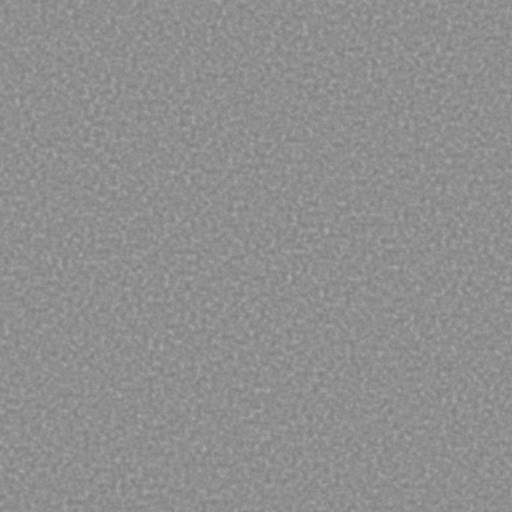
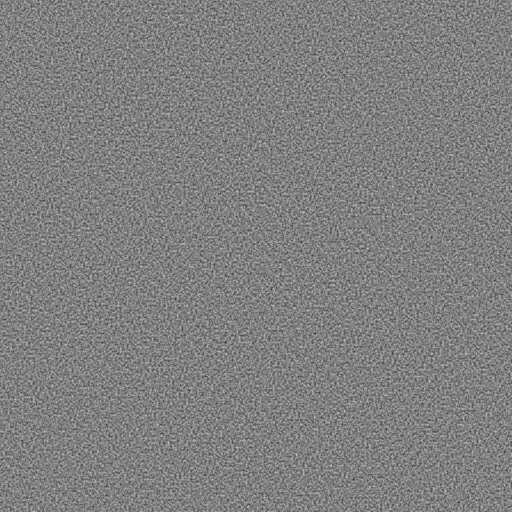
use the new ember-orange tile designs: finer grain and top edges that follow the corners

diff --git a/art/tiles/ember-orange/grain-texture.html b/art/tiles/ember-orange/grain-texture.html
@@ -3,6 +3,6 @@
      regenerate: google-chrome --headless --hide-scrollbars --force-device-scale-factor=1 --window-size=512,512 --screenshot=editor/grain.png art/tiles/ember-orange/grain-texture.html -->
 <html><body style="margin:0;background:#808080">
 <svg xmlns="http://www.w3.org/2000/svg" width="512" height="512" viewBox="0 0 160 160" style="display:block">
-<filter id="grain" x="0" y="0" width="160" height="160" filterUnits="userSpaceOnUse"><feTurbulence type="fractalNoise" baseFrequency="0.6" numOctaves="3" seed="4"/><feColorMatrix type="saturate" values="0"/></filter>
+<filter id="grain" x="0" y="0" width="160" height="160" filterUnits="userSpaceOnUse" color-interpolation-filters="sRGB"><feTurbulence type="fractalNoise" baseFrequency="1.4" numOctaves="4" seed="4" stitchTiles="stitch"/><feColorMatrix type="saturate" values="0"/><feComponentTransfer><feFuncR type="linear" slope="1.6" intercept="-0.3"/><feFuncG type="linear" slope="1.6" intercept="-0.3"/><feFuncB type="linear" slope="1.6" intercept="-0.3"/><feFuncA type="linear" slope="0" intercept="1"/></feComponentTransfer></filter>
 <g style="isolation:isolate"><rect width="160" height="160" fill="#808080"/><rect width="160" height="160" filter="url(#grain)" opacity="0.5" style="mix-blend-mode:overlay"/></g>
 </svg></body></html>

diff --git a/editor/editor.css b/editor/editor.css
@@ -155,7 +155,8 @@ main { padding: 12px 16px calc(32px + env(safe-area-inset-bottom)); max-width: 7
   inset: 0 0 10% 0;
   border-radius: var(--round);
   clip-path: inset(0 round var(--round));
-  background: linear-gradient(#ffffff2e 0 2.8%, transparent 2.8%), var(--face);
+  background: var(--face);
+  box-shadow: inset 0 2.5cqw #ffffff2e;
 }
 .tile.nf .face { --face: #3b3447; }
 .tile.flipped .face { transform: translateY(var(--press)); }
@@ -175,11 +176,10 @@ main { padding: 12px 16px calc(32px + env(safe-area-inset-bottom)); max-width: 7
 .grain, .shade, .glow { position: absolute; inset: 0; }
 .grain { background: url("grain.png") 0 0 / 100% auto no-repeat; mix-blend-mode: overlay; }
 .shade { background: radial-gradient(70% 70% at 50% 35%, #ffffff2e, #00000024); }
-/* the lit face's dark top edge and inner glow */
+/* the lit face's dark top edge (an inset shadow, so it follows the rounded corners like in the svg) and inner glow */
 .glow {
   border-radius: var(--round);
-  background: linear-gradient(#0000002e 0 3.5%, transparent 3.5%);
-  box-shadow: inset 0 0 6cqw 2cqw #ffffff59;
+  box-shadow: inset 0 0 6cqw 2cqw #ffffff59, inset 0 3.125cqw #0000002e;
   opacity: 0;
 }
 .tile.flipped .light { transform: none; }

diff --git a/CLAUDE.md b/CLAUDE.md
@@ -63,7 +63,7 @@ When Drifl drops a zip of art into the repo, extract what matters into `art/` (o
 
 Tapping empty space cancels back to `idle`. Invalid tile picks are ignored. `selection(state, index, picks)` gives what a selected card can pick next (`candidateTiles`/`candidateCards`), what it would change (`preview`/`blocked`, from the effect's `plan`) and how many picks it needs.
 
-**Web input** (`editor/board.js`, used by the tester page and the editor's Play tab; phone portrait is the intended way to play): taps work as above. On top of that, `attachPlayInput` turns gestures into the same bridge calls (`tapCard`/`tapTile`/`tapNothing`), so undo still counts one play per step. A drag (more than 10px) doesn't touch the game until the drop. A ghost card follows the finger. For a tile card, the board shows what the card would do: its options (`targeting` outlines), its changes (`preview`/`blocked`) and an orange dashed border (`.board.dragging`). These come from `bridge.peek(index)` and fade in through the CSS variable `--drag`, which goes from 0 at the drag start to 1 near the board's centre (`dragStrength`). For retarget, the cards it can change get the candidate border at full strength. Tapping a card skips all of this and selects it straight away. Holding a card still for 400ms (`LONG_PRESS`) shows the same options and changes at full strength, without the orange border and without selecting it, until the card is let go; moving the finger then turns the hold into a normal drag. The ghost is a clone of the hand card. Dropping a Fixed card on the board plays it (selects it, then picks its first candidate tile). Dropping another tile card on the board selects it, and its tiles are then picked by tapping or swiping. Dropping retarget on another card selects it and picks that card (or shakes the card if it can't be retargeted). Dropping anywhere else does nothing. Cards have `touch-action: pan-x`, so a drag must start upwards (a sideways move scrolls the hand). While an `adjacent` card has no picks yet, swiping from a tile to a neighbour picks both. A prompt line above the hand (`playPrompt`) says what to do next, with a Cancel button while a card is selected. The selected card shows a `k/N` badge when it needs more than one pick. Tapping a tile that can't be picked shakes it. `renderSnapshot` clears and rebuilds the board and hand itself (callers must not clear them first) and restores the window and hand scroll positions. The prompt row, status line and cards have fixed sizes, so the page doesn't change height as text changes. Cards (`renderCard`) have no text below the header. The header shows an icon and name in a colour chosen by effect and target kind (`CARD_FACES`, looked up as `effect:kind` and then `effect`): "Flip all" (Fixed, deep ember orange), "Flip one" (ChooseFrom, bright orange), plain "Flip" for other kinds, ⇄ Swap (lavender) and ✎ Retarget (rose), all picked to sit with the ember-orange tiles. The card body is styled like a tile key: the purple tile face (`--tile`) with the same grain and shading, on a dark `#221b28` base edge. Below the header is a mini-map of the board on dark squares: filled squares for the tiles of a Fixed card, outlined squares for the choices of a ChooseFrom card, the whole board tinted with a ×N pill for `any` and a pill of N joined squares for `adjacent`. Retarget shows a filled card ⇄ an outlined card. Single-use cards have a dashed white inner frame, and cards made by retarget have an orange "copy" tag. The old text label is kept as the card's `title`. Tiles (`renderCell`) have no text (the type id is the tile's `title`). Each tile is drawn in CSS as a key, after Drifl's "ember orange" tile designs: a face (`.face`) on a darker base (`.base`, with an orange `.base::after` that fades in when lit). `.tile` is a size container, so `cqw`/`cqh` inside it are tile units; corners are `--round` (12.5cqw) and the face is clipped with `clip-path: inset(0 round …)` (overflow clipping let animated children escape the rounded corners on some phones). Unflipped faces are purple (`--tile`); flipped faces are pushed in by 12/160 of the tile and lit orange (`--flipped`, with an inner glow). The face's own background is the unlit colour with its white top edge. Above it, in order: `.light`, a plain orange disc that covers the face when flipped and is scaled to 0 when not; `.grain` (`editor/grain.png`, blended with `mix-blend-mode: overlay` and stretched to the face width, so the grain scales with the tile like in the SVGs); `.shade` (the radial shading); and `.glow` (the lit face's dark top edge and inner glow, shown when flipped). The texture lies over both colours and shows the type: basic tiles are grainy, notswappable tiles have wide white diagonal stripes drawn plainly as in the SVG (`.tile.ns`, no grain), and notflippable tiles are grainy with a darker face for now (`.tile.nf`). Tile highlights (candidate, targeting, picked, the editor's coord selection) are inset shadows on `.face::after`, so they show above the light. When a tile's flipped state changes in a one-play step (a play, undo or redo), it animates (700ms for a flip and for an unflip with the current values). Flipping (`anim-on`): the face is pushed in by `--press`, the disc grows from the centre (ease-in) while the base's orange edge fades in, and the glow fades in as the disc reaches the edges; then the face bobs, a damped wobble (`bob-1`..`bob-3` keyframes, picked by `--bob-name`, each swing `--bob-damp` times the last) on the face's separate `translate` property, so it adds to the press. Unflipping (`anim-off`) runs it the other way. Each part (press, light, glow, bob) is its own from/to animation with a start, length and easing set by CSS variables on `:root` in `editor.css` (`--light-start`, `--light-ms`, `--light-ease`, …, and the same with `-off` for unflipping); `flipDuration()` in `board.js` reads the `-start`/`-ms` ones, so they must stay in ms. Only `transform` and `opacity` animate, and nothing is ever scaled above 1× or has a moving texture, so nothing has to be redrawn while it runs (keeping a texture still inside a growing circle needs an inverse scale, which made phones redraw the lit face at up to 33× and lag). `renderCell` removes the `anim-on`/`anim-off` classes when the animation (flip and bob) ends. `flipAnimations` keeps the last state and change time per board in a `WeakMap`, so a re-render mid-animation continues it (negative `--anim-delay`). Only steps within the same game animate: the snapshot's `game_id` changes on every `start()`, so loading, reset, restarting after an edit or switching level don't animate. A timed substrate's counter is a white number (no background, with a soft shadow) in the middle of the tile and moves with the face. Links still use the `L<n>` badge. The board previews the result: `preview` tiles get a dashed outline (filled with the colour they will flip to, for flip) and `blocked` tiles a ✕.
+**Web input** (`editor/board.js`, used by the tester page and the editor's Play tab; phone portrait is the intended way to play): taps work as above. On top of that, `attachPlayInput` turns gestures into the same bridge calls (`tapCard`/`tapTile`/`tapNothing`), so undo still counts one play per step. A drag (more than 10px) doesn't touch the game until the drop. A ghost card follows the finger. For a tile card, the board shows what the card would do: its options (`targeting` outlines), its changes (`preview`/`blocked`) and an orange dashed border (`.board.dragging`). These come from `bridge.peek(index)` and fade in through the CSS variable `--drag`, which goes from 0 at the drag start to 1 near the board's centre (`dragStrength`). For retarget, the cards it can change get the candidate border at full strength. Tapping a card skips all of this and selects it straight away. Holding a card still for 400ms (`LONG_PRESS`) shows the same options and changes at full strength, without the orange border and without selecting it, until the card is let go; moving the finger then turns the hold into a normal drag. The ghost is a clone of the hand card. Dropping a Fixed card on the board plays it (selects it, then picks its first candidate tile). Dropping another tile card on the board selects it, and its tiles are then picked by tapping or swiping. Dropping retarget on another card selects it and picks that card (or shakes the card if it can't be retargeted). Dropping anywhere else does nothing. Cards have `touch-action: pan-x`, so a drag must start upwards (a sideways move scrolls the hand). While an `adjacent` card has no picks yet, swiping from a tile to a neighbour picks both. A prompt line above the hand (`playPrompt`) says what to do next, with a Cancel button while a card is selected. The selected card shows a `k/N` badge when it needs more than one pick. Tapping a tile that can't be picked shakes it. `renderSnapshot` clears and rebuilds the board and hand itself (callers must not clear them first) and restores the window and hand scroll positions. The prompt row, status line and cards have fixed sizes, so the page doesn't change height as text changes. Cards (`renderCard`) have no text below the header. The header shows an icon and name in a colour chosen by effect and target kind (`CARD_FACES`, looked up as `effect:kind` and then `effect`): "Flip all" (Fixed, deep ember orange), "Flip one" (ChooseFrom, bright orange), plain "Flip" for other kinds, ⇄ Swap (lavender) and ✎ Retarget (rose), all picked to sit with the ember-orange tiles. The card body is styled like a tile key: the purple tile face (`--tile`) with the same grain and shading, on a dark `#221b28` base edge. Below the header is a mini-map of the board on dark squares: filled squares for the tiles of a Fixed card, outlined squares for the choices of a ChooseFrom card, the whole board tinted with a ×N pill for `any` and a pill of N joined squares for `adjacent`. Retarget shows a filled card ⇄ an outlined card. Single-use cards have a dashed white inner frame, and cards made by retarget have an orange "copy" tag. The old text label is kept as the card's `title`. Tiles (`renderCell`) have no text (the type id is the tile's `title`). Each tile is drawn in CSS as a key, after Drifl's "ember orange" tile designs: a face (`.face`) on a darker base (`.base`, with an orange `.base::after` that fades in when lit). `.tile` is a size container, so `cqw`/`cqh` inside it are tile units; corners are `--round` (12.5cqw) and the face is clipped with `clip-path: inset(0 round …)` (overflow clipping let animated children escape the rounded corners on some phones). Unflipped faces are purple (`--tile`); flipped faces are pushed in by 12/160 of the tile and lit orange (`--flipped`, with an inner glow). The face's own background is the unlit colour, with its white top edge as an inset shadow (`.face`'s `box-shadow`), so the edge follows the rounded corners like in the SVGs. Above it, in order: `.light`, a plain orange disc that covers the face when flipped and is scaled to 0 when not; `.grain` (`editor/grain.png`, blended with `mix-blend-mode: overlay` and stretched to the face width, so the grain scales with the tile like in the SVGs); `.shade` (the radial shading); and `.glow` (the lit face's dark top edge and inner glow, both inset shadows, shown when flipped). The texture lies over both colours and shows the type: basic tiles are grainy, notswappable tiles have wide white diagonal stripes drawn plainly as in the SVG (`.tile.ns`, no grain), and notflippable tiles are grainy with a darker face for now (`.tile.nf`). Tile highlights (candidate, targeting, picked, the editor's coord selection) are inset shadows on `.face::after`, so they show above the light. When a tile's flipped state changes in a one-play step (a play, undo or redo), it animates (700ms for a flip and for an unflip with the current values). Flipping (`anim-on`): the face is pushed in by `--press`, the disc grows from the centre (ease-in) while the base's orange edge fades in, and the glow fades in as the disc reaches the edges; then the face bobs, a damped wobble (`bob-1`..`bob-3` keyframes, picked by `--bob-name`, each swing `--bob-damp` times the last) on the face's separate `translate` property, so it adds to the press. Unflipping (`anim-off`) runs it the other way. Each part (press, light, glow, bob) is its own from/to animation with a start, length and easing set by CSS variables on `:root` in `editor.css` (`--light-start`, `--light-ms`, `--light-ease`, …, and the same with `-off` for unflipping); `flipDuration()` in `board.js` reads the `-start`/`-ms` ones, so they must stay in ms. Only `transform` and `opacity` animate, and nothing is ever scaled above 1× or has a moving texture, so nothing has to be redrawn while it runs (keeping a texture still inside a growing circle needs an inverse scale, which made phones redraw the lit face at up to 33× and lag). `renderCell` removes the `anim-on`/`anim-off` classes when the animation (flip and bob) ends. `flipAnimations` keeps the last state and change time per board in a `WeakMap`, so a re-render mid-animation continues it (negative `--anim-delay`). Only steps within the same game animate: the snapshot's `game_id` changes on every `start()`, so loading, reset, restarting after an edit or switching level don't animate. A timed substrate's counter is a white number (no background, with a soft shadow) in the middle of the tile and moves with the face. Links still use the `L<n>` badge. The board previews the result: `preview` tiles get a dashed outline (filled with the colour they will flip to, for flip) and `blocked` tiles a ✕.
 
 **Levels as JSON** (`game/level.js`): `parseLevel(data)` turns level JSON into a checked level (`{width, height, budget, tiles, substrates, links, flipped, counters, cards}` with per-cell lists) and throws an `Error` with a readable message if it's invalid; all validation lives there and in each target kind's `parse`/`check`. Format: `{"version", "budget", "tiles": [[id]], "substrates": [[id]], "links": [[[r,c],...]], "flipped": [[r,c],...], "counters": [[r,c,n],...], "cards": [{"effect", "target": {"kind", ...}, "single_use"?}]}`. `links`, `flipped` and `counters` are optional. The budget must be at least 1, coords must be exactly `[r, c]` (`[r, c, n]` for counters), `fixed` and `from` cards need at least one tile, and error messages number cards from 1, like the editor. `version` is the level format version (`LEVEL_VERSION`, now 1); a level without one counts as version 1, since that's the format every level had before versions existed. `upgradeLevel` (called by `parseLevel`, and by the editor on load, after a gist pull and on import) brings an older level up to date through `MIGRATIONS` one version at a time, and rejects a level from a newer game with a message to press Reload. When the format changes, bump `LEVEL_VERSION` and add the migration from the old version. The editor writes the version into new levels and exports, and `catalog()` reports it as `level_version`. Level files live in `levels/`. `levels/pack.json` is the tester pack: a list `[{name, folder?, level, solution?}]` in play order, the same format as the editor's "Copy all" and folder "Copy" exports. A solution is a list of moves, `{card, tiles: [[r,c], ...]}` or `{card, target}` with card indices counted from 0 in the hand at that moment; it is metadata about the level, kept next to `level` rather than inside it. `playMoves` (`game/state.js`) replays one and checks each move could be tapped (no moves after the level is won, card indices must be whole numbers). To publish levels to testers, put them in an editor folder, save a solution for each (win it in Play, then Save solution), press the folder's Copy, paste the result into `levels/pack.json`, then commit and push. `python test.py` fails if a pack level has no solution or its solution no longer wins.
 

diff --git a/CHANGELOG.md b/CHANGELOG.md
@@ -2,6 +2,8 @@
 
 Newest first. Each entry gives the date, what changed and why. Older entries also give the commit hash; from this file's creation on, each entry is part of the commit it describes, so `git log -- CHANGELOG.md` finds it.
 
+- **2026-10-04**: new tile designs from Drifl (`art/tiles/ember-orange/`, from the "Square tiles design" zip). The grain is finer and has more contrast (base frequency 1.4 instead of 0.6, 4 octaves, a contrast curve, worked out in sRGB), and the white top edge of unlit faces and the dark top edge of lit faces now curve around the rounded corners instead of being straight bands. `grain-texture.html` uses the new grain filter and `editor/grain.png` was regenerated from it (cards use it too), and both top edges are now inset shadows (`.face`, `.glow`) so they follow the corners.
+
 - **2026-10-04**: new flip timing from Drifl's tuning: the press takes 220ms and overshoots slightly (the overshoot curve the release already used), the glow starts at 160ms (was 315ms), and the bob starts at 220ms, right as the press ends, and lasts 480ms. A flip now takes 700ms instead of 750ms. Unflip is unchanged.
 
 - **2026-10-04**: each animation slider and easing choice under the hand now has its own ↺ button on the right that resets just that value to its default, as Drifl asked.
